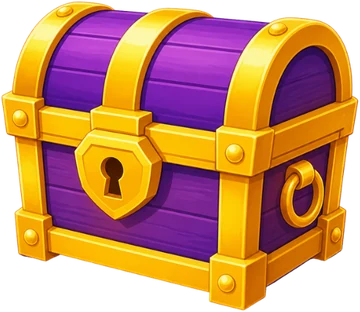
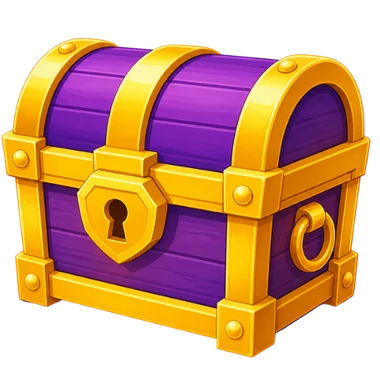
Sandık ışıklar içinde açılır (Canva açık hâli); zor bölümler yazısız, yumuşak ton
Claude-Session: https://claude.ai/code/session_01CqmBopmm2oAGpcb7ghL8DV

diff --git a/src/stil.css b/src/stil.css
@@ -1871,7 +1871,6 @@ img.sandik {
   filter: drop-shadow(0 5px 0 rgba(90, 58, 34, 0.35));
   animation: sandik-salla 0.6s ease-in-out 0.15s both;
 }
-.odul-ortu.gecikmeli img.sandik { animation-delay: 1.45s; }
 @keyframes sandik-salla {
   0%, 100% { transform: rotate(0) scale(1); }
   20% { transform: rotate(-7deg) scale(1.04); }
@@ -1881,3 +1880,101 @@ img.sandik {
 }
 .sandik-sahne { height: 170px; }
 .sandik-sahne .sandik-kalp { bottom: 96px; z-index: 1; }
+
+/* Zorlu bölümler (5 Kasım 2026 gecesi): yazısız, yumuşak kırmızımsı ton; zor ve çok zor aynı. */
+.bolum-kutu.zorlu:not(.kilitli):not(.siradaki) { --yuz: #a3477f; --taban: #6f2a57; color: #fff; }
+.bolum-kutu.kilitli.zorlu { --yuz: #f0dcd8; --taban: #dcc0ba; }
+
+/* ---------- Sandık açılışı (5 Kasım 2026 gecesi: "ışıklar içinde geldiği gibi, hediye gibi") ----------
+   Sıra (saniye): 0–0.45 düşerek gelir; 0.5–1.1 sallanır; 1.15 ışık patlaması, açık hâle geçer;
+   1.3 ödül içinden yükselir, parıltılar saçılır. Bölüm sonunda ilk pencereyse hepsi 1.3 sn sonra. */
+.odul-ortu { --g: 0s; }
+.odul-ortu.gecikmeli { --g: 1.3s; }
+.sandik-sahne { position: relative; width: 200px; height: 190px; display: block; }
+.sandik-sahne + .odul-ad { animation: belir 0.3s ease-out calc(var(--g) + 1.4s) backwards; }
+.sandik-sahne::before { display: none; }
+.sandik-isik {
+  position: absolute;
+  left: 50%;
+  top: 48%;
+  width: 260px;
+  height: 260px;
+  margin: -130px 0 0 -130px;
+  border-radius: 50%;
+  background:
+    radial-gradient(closest-side, rgba(255, 240, 180, 1) 25%, rgba(255, 240, 180, 0) 100%),
+    repeating-conic-gradient(rgba(255, 201, 40, 0.6) 0 10deg, rgba(255, 201, 40, 0) 10deg 24deg);
+  opacity: 0;
+  transform: scale(0.4);
+  animation: sandik-isik-ac 0.6s ease-out calc(var(--g) + 1.1s) forwards, odul-don 10s linear calc(var(--g) + 1.1s) infinite;
+}
+@keyframes sandik-isik-ac { to { opacity: 1; transform: scale(1); } }
+img.sandik {
+  position: absolute;
+  left: 50%;
+  bottom: 0;
+  width: 170px;
+  height: auto;
+  margin-left: -85px;
+  filter: drop-shadow(0 5px 0 rgba(90, 58, 34, 0.35));
+}
+img.sandik-kapali {
+  animation:
+    sandik-dus 0.45s cubic-bezier(0.3, 1.4, 0.5, 1) var(--g) both,
+    sandik-salla 0.6s ease-in-out calc(var(--g) + 0.5s),
+    sandik-gizle 0.01s linear calc(var(--g) + 1.15s) forwards;
+}
+img.sandik-acik { opacity: 0; animation: sandik-goster 0.35s cubic-bezier(0.2, 1.6, 0.4, 1) calc(var(--g) + 1.15s) forwards; }
+@keyframes sandik-dus {
+  0% { transform: translateY(-160px) scale(0.6); opacity: 0; }
+  70% { transform: translateY(6px) scale(1.04, 0.94); opacity: 1; }
+  100% { transform: translateY(0) scale(1); opacity: 1; }
+}
+@keyframes sandik-salla {
+  0%, 100% { transform: rotate(0); }
+  20% { transform: rotate(-6deg); }
+  40% { transform: rotate(6deg); }
+  60% { transform: rotate(-4deg); }
+  80% { transform: rotate(3deg); }
+}
+@keyframes sandik-gizle { to { opacity: 0; } }
+@keyframes sandik-goster {
+  0% { opacity: 0; transform: scale(0.9); }
+  60% { opacity: 1; transform: scale(1.08); }
+  100% { opacity: 1; transform: scale(1); }
+}
+.sandik-parlama {
+  position: absolute;
+  inset: -20px;
+  border-radius: 50%;
+  background: radial-gradient(closest-side, #fff 0%, rgba(255, 255, 255, 0) 70%);
+  opacity: 0;
+  animation: sandik-parla 0.5s ease-out calc(var(--g) + 1.12s);
+  pointer-events: none;
+}
+@keyframes sandik-parla { 0% { opacity: 0; } 25% { opacity: 1; } 100% { opacity: 0; transform: scale(1.4); } }
+.sandik-parilti { position: absolute; left: 50%; top: 45%; width: 0; height: 0; }
+.sandik-parilti i {
+  position: absolute;
+  width: 10px;
+  height: 10px;
+  margin: -5px;
+  background: #fff3b0;
+  clip-path: polygon(50% 0, 62% 38%, 100% 50%, 62% 62%, 50% 100%, 38% 62%, 0 50%, 38% 38%);
+  opacity: 0;
+  animation: sandik-sac 0.9s ease-out calc(var(--g) + 1.2s) forwards;
+}
+@keyframes sandik-sac {
+  0% { opacity: 1; transform: rotate(var(--a)) translateY(0) scale(0.6); }
+  100% { opacity: 0; transform: rotate(var(--a)) translateY(-110px) scale(1.3); }
+}
+.sandik-sahne .sandik-kalp {
+  bottom: 95px;
+  z-index: 2;
+  animation: sandik-kalp 0.6s cubic-bezier(0.2, 1.5, 0.4, 1) calc(var(--g) + 1.3s) both;
+}
+.odul-ortu.gecikmeli .sandik-kalp { animation-delay: calc(var(--g) + 1.3s); }
+@keyframes sandik-kalp {
+  0% { transform: translateY(50px) scale(0.2); opacity: 0; }
+  100% { transform: translateY(-14px) scale(1.15); opacity: 1; }
+}

diff --git a/src/oyun.ts b/src/oyun.ts
@@ -645,15 +645,6 @@ export class Oyun {
     }
     this.yenidenBasla(no);
     this.basladi = true;
-    // Zor bölüm başlarken kısa bir uyarı afişi (10'luk dilim).
-    const tur = bolumTuru(no);
-    if (tur === 'zor' || tur === 'cok-zor') {
-      const afis = document.createElement('div');
-      afis.className = 'zor-afis ' + tur;
-      afis.textContent = tur === 'zor' ? 'Zor bölüm' : 'Çok zor bölüm';
-      this.sahne.appendChild(afis);
-      window.setTimeout(() => afis.remove(), 2200);
-    }
   }
 
   // Numaralı bölümü baştan kurar. Aynı numara her zaman aynı dizilimi getirir
@@ -666,7 +657,6 @@ export class Oyun {
     this.duraklatMenuKapat();
     this.bolum = bolumKur(no);
     this.bolumNoEl.textContent = `Bölüm ${no}`;
-    this.bolumNoEl.dataset.tur = bolumTuru(no);
     this.bolumNoEl.dataset.no = String(no);
     this.sutunlar = this.bolum.sutunlar.map((s) => s.slice());
     this.sakliSira = 0;
@@ -1639,13 +1629,31 @@ export class Oyun {
     const kutu = ort.firstElementChild as HTMLDivElement;
     const sahne = document.createElement('div');
     sahne.className = 'sandik-sahne';
-    // Sandık resmi: Canva ile çizildi (Kemal, 5 Kasım: "Canva'da çizilsin"); kaynak docs/lisanslar.md.
-    const sandikResim = document.createElement('img');
-    sandikResim.className = 'sandik';
-    sandikResim.src = SANDIK_RESMI;
-    sandikResim.alt = '';
-    sandikResim.draggable = false;
-    sahne.appendChild(sandikResim);
+    // Sandık "ışıklar içinde, hediye gibi" gelir ve açılır (Kemal, 5 Kasım gecesi: "açılmıyor,
+    // duruyor"): düşerek gelir, sallanır, ışık patlamasıyla açık hâline geçer, ödül içinden
+    // yükselir. Kapalı ve açık resim Canva ile çizildi; kaynak docs/lisanslar.md.
+    const isik = document.createElement('div');
+    isik.className = 'sandik-isik';
+    const kapali = document.createElement('img');
+    kapali.className = 'sandik sandik-kapali';
+    kapali.src = SANDIK_RESMI;
+    const acik = document.createElement('img');
+    acik.className = 'sandik sandik-acik';
+    acik.src = SANDIK_ACIK_RESMI;
+    for (const r of [kapali, acik]) {
+      r.alt = '';
+      r.draggable = false;
+    }
+    const parlama = document.createElement('div');
+    parlama.className = 'sandik-parlama';
+    const parilti = document.createElement('div');
+    parilti.className = 'sandik-parilti';
+    for (let i = 0; i < 10; i++) {
+      const p = document.createElement('i');
+      p.style.setProperty('--a', `${i * 36}deg`);
+      parilti.appendChild(p);
+    }
+    sahne.append(isik, kapali, acik, parlama, parilti);
     const kalp = document.createElement('div');
     kalp.className = 'sandik-kalp';
     kalp.innerHTML = KALP_BUYUK_SVG;
@@ -1908,3 +1916,4 @@ function canGostergesi(kucuk: boolean): HTMLDivElement {
 const KALP_BUYUK_SVG =
   '<svg viewBox="0 0 24 24" aria-hidden="true"><path d="M12 21.5C5.2 16 2 12.6 2 8.6 2 5.6 4.4 3.3 7.2 3.3c1.9 0 3.6 1 4.8 2.6 1.2-1.6 2.9-2.6 4.8-2.6 2.8 0 5.2 2.3 5.2 5.3 0 4-3.2 7.4-10 12.9Z" fill="#e0483f" stroke="#5a3a22" stroke-width="1.8" stroke-linejoin="round"/><path d="M6.2 6.6c.8-.9 2-1.2 3-.9" fill="none" stroke="#fff" stroke-opacity="0.6" stroke-width="1.6" stroke-linecap="round"/></svg>';
 const SANDIK_RESMI = 'gorseller/sandik.webp';
+const SANDIK_ACIK_RESMI = 'gorseller/sandik-acik.webp';

diff --git a/src/harita.ts b/src/harita.ts
@@ -110,15 +110,11 @@ export function haritaCiz(
     const siradaki = !kilitli && yildiz === 0;
     const d = document.createElement('button');
     d.className = 'bolum-kutu' + (kilitli ? ' kilitli' : siradaki ? ' siradaki' : ' gecildi');
-    // Zor ve çok zor bölümler kırmızı, altında etiket (10'luk dilim; Kemal, 5 Kasım).
+    // Zor ve çok zor bölümler: yalnız yumuşak bir kırmızımsı ton; yazı, etiket yok,
+    // ikisi aynı görünür (Kemal, 5 Kasım gecesi: "çok daha soft ... bir ton kırmızıya
+    // yakınını zorluk ayırt etmeksizin hiçbir bilgi vermeden koyabilirsin").
     const tur = bolumTuru(no);
-    if (tur === 'zor' || tur === 'cok-zor') {
-      d.classList.add(tur);
-      const etiket = document.createElement('span');
-      etiket.className = 'bolum-kutu-etiket';
-      etiket.textContent = tur === 'zor' ? 'Zor' : 'Çok zor';
-      d.appendChild(etiket);
-    }
+    if (tur === 'zor' || tur === 'cok-zor') d.classList.add('zorlu');
     d.dataset.no = String(no);
     d.dataset.yildiz = String(yildiz);
     d.setAttribute('aria-label', `Bölüm ${no}` + (kilitli ? ', kilitli' : ''));

diff --git a/docs/tasarim-belgesi.md b/docs/tasarim-belgesi.md
@@ -30,6 +30,15 @@ taşınmadı. Bölüm 0 belgenin geri kalanıyla çelişirse bölüm 0 geçerlid
 
 En yeni karar en üstte. Çelişen yerde en yeni karar geçerlidir.
 
+### 0.30 Sandık açılır, zor bölümler yazısız (Kemal, 5 Kasım 2026 gecesi; öneri)
+
+Kemal: "Sandık işini sevmedim. Çünkü açılmıyor, duruyor, durduğu yerden üzerine bir kalp geliyor. Onu ... ışıklar içinde geldiği gibi yapalım, hediye gibi. Zor bölümlerin renklenmesini sevmedim. ... çok daha soft ... bir ton kırmızıya yakınını zorluk ayırt etmeksizin hiçbir bilgi vermeden koyabilirsin. ... gidecek olan kişi onun biraz daha zorlu olduğunu bilir."
+
+- Sandık: Canva'da açık hâli de çizildi (içinden ışık ve hediye kutusu). Penceredeki sıra: sandık yukarıdan düşerek gelir, sallanır, beyaz bir parlamayla açık hâline geçer, arkasında dönen sarı ışık açılır, parıltılar saçılır, ödülün kalbi içinden yükselir, sonra ödülün yazısı belirir.
+- Zor bölümler: kırmızı kutular, "Zor" / "Çok zor" etiketleri, bölüm başındaki "Zor bölüm" afişi ve üst şeritteki kırmızımsı numara kalktı. Bölümler ekranında zor ve çok zor bölümler aynı, yumuşak bir kırmızımsı mor tonda (kilitliyken soluk pembemsi krem); hiçbir yazı yok.
+- Sırada (Kemal): zorlu bölümlerin kutusunda "?" ile bir hediye; kazanınca yeni ürün açılır ("çay açılır, Türk kahvesi açılır").
+- Ekran görüntüleri: `docs/ekran/sandik-acilis/`.
+
 ### 0.29 Müşteri renk çeşitleri (Kemal, 5 Kasım 2026 gecesi; öneri)
 
 Kemal: "Bu arada insanlar çok güzel gerçekten fakat daha da çeşitlenme imkanı var mı? Özellikle renkler falan kombinasyonlu renkler yaparsak işimize yarayabilir çeşitte". Üç yol soruldu (renk çevirme, parça parça kombinasyon, yeni kişiler); cevabı: "Hepsi".

diff --git a/docs/lisanslar.md b/docs/lisanslar.md
@@ -35,6 +35,7 @@ ayrılsın diye biraz daha sarı yapıldı.
 
 | Dosya | Ne | Kaynak |
 |---|---|---|
+| `public/gorseller/sandik-acik.webp` | Ödül sandığının açık hâli (içinden ışık ve hediye kutusu; kapalı hâliyle aynı kalıpta kesildi) | Canva, kapalı sandık örnek verilerek çizildi; aynı tasarımın 14. sayfası ("Sandık açık (5 Kasım 2026)"). Resim: https://www.canva.com/M/MAHaFV1NF60 |
 | `public/gorseller/sandik.webp` | Ödül sandığı (mor-sarı, saydam zemin; kırpılıp 360 piksele küçültüldü) | Canva'nın resim üretme aracıyla çizildi, arka planı Canva'da silindi; Kemal'in Canva hesabında "DK Lite çalışma (7. paket görselleri)" tasarımının 13. sayfası ("Sandık (5 Kasım 2026)"), Kemal'in izniyle ("Canva'da çizilsin"). Resim: https://www.canva.com/M/MAHaFdZ3cJg |
 
 İlk deneme sandığın üstüne kendiliğinden "DK LITE" yazısı ve tanınmış bir oyunun logosunu andıran bir amblem koyduğu için kullanılmadı; ikinci deneme yazısız istendi. Kullanım koşulları Canva'nın yapay zekâ ile üretilen içerik koşulları.
